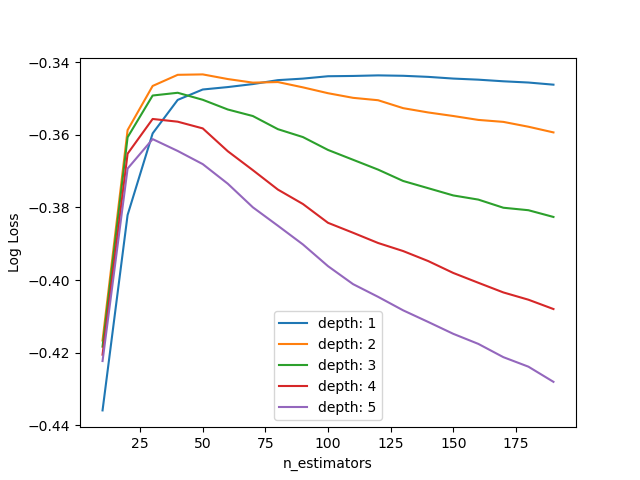
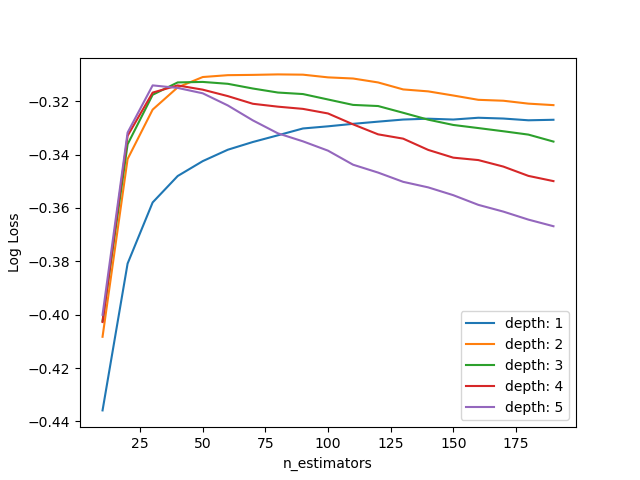
some changes

diff --git a/XGBoost/xgboost_model.py b/XGBoost/xgboost_model.py
@@ -31,17 +31,19 @@ def main():
     data_x3 = data_x[:, 6:11]
     modelKValidation(data_x3, data_y)
 
-    print("Model 4 (employed, credit, income)")
-    data_x4 = data_x[:, [9, 10, 14]]
+    print("Model 4 Kuhn (Prior Default, employed, credit, income)")
+    data_x4 = data_x[:, [8, 9, 10, 14]]
+    modelKValidation(data_x4, data_y)
+
+    print("Model 5 (6 most by CART)")
+    data_x4 = data_x[:, [2, 8, 9, 12, 13, 14]]
     modelKValidation(data_x4, data_y)
 
 def modelKValidation(data_x, data_y):
     splits = 5
     kf = KFold(n_splits=splits, random_state=7, shuffle=True)
-    xg_model = xgb.XGBClassifier(learning_rate=0.01,
-                                 n_estimators=50,
-                                 max_depth=2,
-                                 gamma=1)
+    xg_model = xgb.XGBClassifier(n_estimators=80,
+                                 max_depth=2)
     total_cor = 0
 
     for train, test in kf.split(data_x):
@@ -56,41 +58,21 @@ def modelKValidation(data_x, data_y):
     average_acc = total_cor/len(data_x)
     print("Accuracy: %.2f%%" % (average_acc * 100.0))
 
-    np_data = np.array(crx_data)
-
-    data_x = np_data[:, 0:-1]
-    data_y = np_data[:, -1]
-
-    print("Model 1 (all identifiers)")
-    modelKValidation(data_x, data_y)
-
-    print("Model 2 (top 2 most influential IDs by lasso")
-    data_x2 = data_x[:, 8:10]
-    modelKValidation(data_x2, data_y)
-
-    print("Model 3 (top 5 most influential IDs by lasso)")
-    data_x3 = data_x[:, 6:11]
-    modelKValidation(data_x3, data_y)
-
-    print("Model 4 (employed, credit, income)")
-    data_x4 = data_x[:, [9, 10, 14]]
-    modelKValidation(data_x4, data_y)
-
-def modelKValidation(data_x, data_y):
-    splits = 5
-    kf = KFold(n_splits=splits, random_state=7, shuffle=True)
-    xg_model = xgb.XGBClassifier()
-    totalAcc = 0.0
-
-    for train, test in kf.split(data_x):
-        x_train, x_test = data_x[train], data_x[test]
-        y_train, y_test = data_y[train], data_y[test]
-        xg_model.fit(x_train, y_train)
-        y_pred = [round(value) for value in xg_model.predict(x_test)]
-        accuracy = accuracy_score(y_test, y_pred)
-        totalAcc = totalAcc + accuracy
-
-    averageAcc = totalAcc/splits
-    print("Accuracy: %.2f%%" % (averageAcc * 100.0))
+# def modelKValidation(data_x, data_y):
+#     splits = 5
+#     kf = KFold(n_splits=splits, random_state=7, shuffle=True)
+#     xg_model = xgb.XGBClassifier()
+#     totalAcc = 0.0
+#
+#     for train, test in kf.split(data_x):
+#         x_train, x_test = data_x[train], data_x[test]
+#         y_train, y_test = data_y[train], data_y[test]
+#         xg_model.fit(x_train, y_train)
+#         y_pred = [round(value) for value in xg_model.predict(x_test)]
+#         accuracy = accuracy_score(y_test, y_pred)
+#         totalAcc = totalAcc + accuracy
+#
+#     averageAcc = totalAcc/splits
+#     print("Accuracy: %.2f%%" % (averageAcc * 100.0))
 
 main()

diff --git a/XGBoost/tune.py b/XGBoost/tune.py
@@ -10,8 +10,8 @@ def main():
     data_x = np_data[:, 0:-1]
     data_y = np_data[:, -1]
 
-    print("Model 3 (top 5 most influential IDs by lasso)")
-    data_x3 = data_x[:, 6:11]
+    print("Model 5 (top 6 most influential IDs by lasso)")
+    data_x3 = data_x[:, [2, 8, 9, 12, 13, 14]]
     tune_depth_and_trees(data_x3, data_y)
     # Best: -0.343346 using {'max_depth': 2, 'n_estimators': 50}
 
